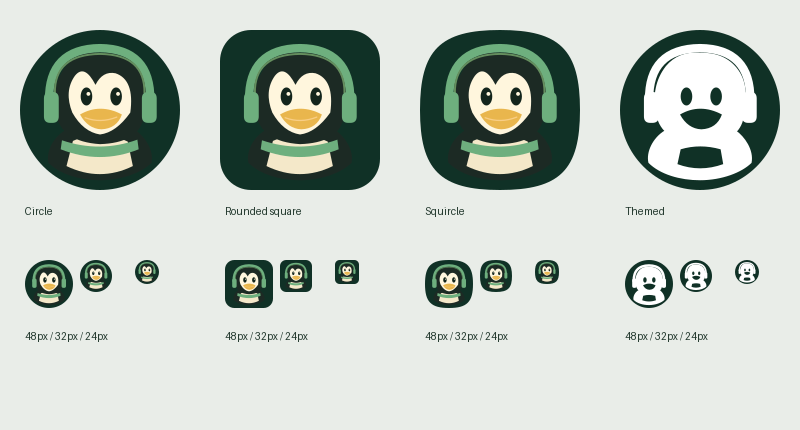
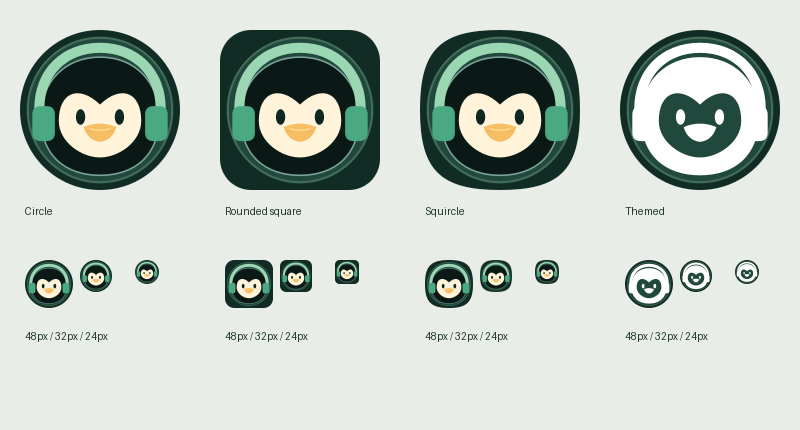
feat: 重绘 Arris 耳机 Tux 启动图标
用唱片纹与简化轮廓提高小尺寸辨识度，同步圆形、自适应、主题和通知图标。

diff --git a/tools/icons/generate_tux_launcher.py b/tools/icons/generate_tux_launcher.py
@@ -1,5 +1,5 @@
 #!/usr/bin/env python3
-"""Build launcher vectors/legacy PNGs from the Easter egg's native Tux face.
+"""Build launcher vectors and legacy PNGs for the Arris listening Tux.
 Needs rsvg-convert, Pillow and numpy. No image service or network is used.
 """
 from pathlib import Path
@@ -13,42 +13,59 @@ OUT = ROOT / 'artwork/launcher'
 A = '{http://schemas.android.com/apk/res/android}'
 E.register_namespace('android', A[1:-1])
 E.register_namespace('aapt', 'http://schemas.android.com/aapt')
-SOURCE = RES / 'drawable/tux_listener.xml'
 NOTE = '<!-- Generated by tools/icons/generate_tux_launcher.py. Tux: Larry Ewing / The GIMP; Arris redraw GPL-3.0. -->\n'
-BG = '#103126'
+BG = '#112B25'
 
 def path(d, fill, **attrs):
     return E.Element('path', {A+'pathData':d, A+'fillColor':fill, **{A+k:str(v) for k,v in attrs.items()}})
 
-def body():
-    return path('M85 128C67 139 56 161 60 178C78 196 109 205 140 205C174 205 205 193 220 178C224 158 209 137 196 128Z', '#1C2A24')
+HOOD = 'M64 103C64 57 96 26 140 26S216 57 216 103C216 153 184 178 140 178S64 153 64 103Z'
+FACE = 'M87 108C87 71 113 61 140 87C167 61 193 71 193 108C193 135 164 155 140 155S87 135 87 108Z'
+BEAK = 'M119 116Q140 107 161 116Q156 133 140 135Q124 133 119 116Z'
+BAND = 'M62 102V92C62 46 94 14 140 14S218 46 218 92V102'
+LEFT_CUP = 'M64 89H71Q82 89 82 100V123Q82 134 71 134H64Q53 134 53 123V100Q53 89 64 89Z'
+RIGHT_CUP = 'M209 89H216Q227 89 227 100V123Q227 134 216 134H209Q198 134 198 123V100Q198 89 209 89Z'
+EYES = 'M109 103a6 10 0 1 0 12 0a6 10 0 1 0-12 0Z M159 103a6 10 0 1 0 12 0a6 10 0 1 0-12 0Z'
+
+def headphones(band, cups):
+    return [
+        path(BAND, '#00000000', strokeColor=band, strokeWidth=13, strokeLineCap='round'),
+        path(LEFT_CUP, cups),
+        path(RIGHT_CUP, cups),
+    ]
 
 def face():
-    original=E.parse(SOURCE).getroot()[0][0]
-    g=E.Element('group')
-    g.append(body())
-    g.append(path('M98 144Q140 125 183 145L191 183Q140 208 88 183Z','#F4E8C9'))
-    for i in [5,6,7,8,9,12,13,14,15,16]: g.append(copy.deepcopy(original[i]))
+    g = E.Element('group')
+    g.extend([
+        path(HOOD, '#0B1916', strokeColor='#7CA69A', strokeWidth=2),
+        path(FACE, '#FFF3DA'),
+        path(EYES, '#0E2620'),
+        path(BEAK, '#F6BD64'),
+        path('M127 118Q140 122 153 118', '#00000000', strokeColor='#FFD891', strokeWidth=2, strokeLineCap='round'),
+    ])
+    g.extend(headphones('#9BD7B3', '#4BA981'))
     return g
 
 def monochrome():
-    # Negative-space eye/beak details stay readable after the system tints alpha.
-    g=E.Element('group')
-    g.append(path('M85 128C67 139 56 161 60 178C78 196 109 205 140 205C174 205 205 193 220 178C224 158 209 137 196 128Z M110 157Q140 148 172 157L176 180Q140 193 105 180Z','#FFFFFF',fillType='evenOdd'))
-    head='M72 103Q63 59 87 28Q106 5 139 7Q178 6 198 32Q219 59 207 111Q198 147 140 149Q80 145 72 103Z'
-    eyes='M110 75a9 14 0 1 0 18 0a9 14 0 1 0 -18 0Z M156 75a9 14 0 1 0 18 0a9 14 0 1 0 -18 0Z'
-    beak='M109 103Q140 85 174 103Q166 125 142 126Q121 125 109 103Z'
-    g.append(path(head+' '+eyes+' '+beak,'#FFFFFF',fillType='evenOdd'))
-    g.append(path('M61 81Q60 1 140 0Q219 1 218 81','#00000000',strokeColor='#FFFFFF',strokeWidth=13,strokeLineCap='round'))
-    original=E.parse(SOURCE).getroot()[0][0]
-    for i in [14,15]:
-        p=copy.deepcopy(original[i]);p.set(A+'fillColor','#FFFFFF');g.append(p)
+    g = E.Element('group')
+    g.append(path(HOOD + ' ' + FACE, '#FFFFFF', fillType='evenOdd'))
+    g.extend([path(EYES, '#FFFFFF'), path(BEAK, '#FFFFFF')])
+    g.extend(headphones('#FFFFFF', '#FFFFFF'))
     return g
 
-# Centre the same source face at 140,96. The full silhouette stays inside r=34.
-SCALE=.29
-TX=54-140*SCALE
-TY=54-96*SCALE
+def background():
+    return [
+        path('M0 0H108V108H0Z', '@color/ic_launcher_background'),
+        path('M54-4A58 58 0 1 0 54 112A58 58 0 1 0 54-4Z M54 9A45 45 0 1 1 54 99A45 45 0 1 1 54 9Z',
+             '#1B4338', fillType='evenOdd'),
+        path('M54 22a32 32 0 1 0 0 64a32 32 0 1 0 0-64Z', '#20483C'),
+        path('M54 21a33 33 0 1 0 0 66a33 33 0 1 0 0-66Z M54 22a32 32 0 1 1 0 64a32 32 0 1 1 0-64Z',
+             '#426D59', fillType='evenOdd'),
+    ]
+
+SCALE = .35
+TX = 54 - 140 * SCALE
+TY = 54 - 94 * SCALE
 
 def group(content):
     g=E.Element('group',{A+'scaleX':str(SCALE),A+'scaleY':str(SCALE),A+'translateX':str(TX),A+'translateY':str(TY)})
@@ -73,6 +90,7 @@ def svg_element(el):
         key=k.removeprefix(A)
         if key in SVG_ATTR:
             if v=='#00000000':v='none'
+            if v=='@color/ic_launcher_background':v=BG
             if key=='fillType' and v=='evenOdd':v='evenodd'
             p.set(SVG_ATTR[key],v)
     return p
@@ -85,7 +103,9 @@ def svg(content,bg=False,mask=None,view='0 0 108 108'):
         elif mask=='square':E.SubElement(clip,'rect',{'x':'18','y':'18','width':'72','height':'72','rx':'14'})
         else:E.SubElement(clip,'path',{'d':'M54 18C81 18 90 27 90 54S81 90 54 90S18 81 18 54S27 18 54 18Z'})
     layer=E.SubElement(root,'g',{'clip-path':'url(#mask)'} if mask else {})
-    if bg:E.SubElement(layer,'rect',{'width':'108','height':'108','fill':BG})
+    if bg:
+        for decoration in background():
+            layer.append(svg_element(decoration))
     layer.append(svg_element(content))
     return E.tostring(root,encoding='unicode')
 
@@ -95,14 +115,20 @@ def render(svg_text,px,out):
 
 def main():
     OUT.mkdir(parents=True,exist_ok=True)
-    colors=RES/'values/colors.xml'
-    colors.write_text(re.sub(r'(<color name="ic_launcher_background">).*?(</color>)',r'\g<1>'+BG+r'\g<2>',colors.read_text()))
+    colors = RES / 'values/colors.xml'
+    colors.write_text(re.sub(
+        r'(<color name="ic_launcher_background">)[^<]+(</color>)',
+        r'\g<1>' + BG + r'\g<2>',
+        colors.read_text(),
+    ))
     fg=group(face());mono=group(monochrome())
     vector(fg,'ic_launcher_foreground');vector(mono,'ic_launcher_monochrome')
-    vector(path('M0 0H108V108H0Z','@color/ic_launcher_background'),'ic_launcher_background')
+    vector(background(),'ic_launcher_background')
     # About/splash use the same centre 72dp framing as an adaptive mask.
     about=E.Element('group',{A+'scaleX':'1.5',A+'scaleY':'1.5',A+'translateX':'-27',A+'translateY':'-27'})
-    about.append(path('M18 54a36 36 0 1 0 72 0a36 36 0 1 0 -72 0Z','@color/ic_launcher_background'));about.append(copy.deepcopy(fg))
+    about.append(path('M18 54a36 36 0 1 0 72 0a36 36 0 1 0 -72 0Z', BG))
+    about.extend(background()[2:])
+    about.append(copy.deepcopy(fg))
     vector(about,'ic_launcher',width=192,height=192)
     small=E.Element('group',{A+'scaleX':str(1/3),A+'scaleY':str(1/3),A+'translateX':'-6',A+'translateY':'-6'})
     small.append(copy.deepcopy(mono));vector(small,'ic_tux_notification',width=24,height=24,viewport=24)
@@ -135,6 +161,6 @@ def main():
                 im=Image.open(tmp).convert('RGBA');sheet.paste(im,(25+i*200+j*55,260),im)
             d.text((25+i*200,330),'48px / 32px / 24px',fill='#20362b')
         sheet.save(OUT/'preview.png')
-        (OUT/'geometry.txt').write_text(f'Source: app/src/main/res/drawable/tux_listener.xml\nForeground maximum alpha radius: {radius:.3f}dp\nSafety threshold: 34dp\nGenerated with rsvg-convert and Pillow.\n')
+        (OUT/'geometry.txt').write_text(f'Source: Arris listening Tux launcher redraw\nForeground maximum alpha radius: {radius:.3f}dp\nSafety threshold: 34dp\nGenerated with rsvg-convert and Pillow.\n')
 
 if __name__=='__main__':main()

diff --git a/artwork/launcher/README.md b/artwork/launcher/README.md
@@ -1,7 +1,8 @@
 # Arris · Tux launcher
 
-The portrait reuses the face, eye proportions, beak and green headphones from
-`app/src/main/res/drawable/tux_listener.xml`, with a compact shoulder/scarf silhouette.
+The listening Tux from the Easter egg inspired a compact launcher mark. The
+ivory face and mint headphones sit over concentric record grooves, while the
+themed layer uses a separate one-color silhouette.
 Tux: Larry Ewing / The GIMP. Arris vector redraw and generator: GPL-3.0.
 
 Rebuild all vector layers, API 24/25 PNGs and the preview:
